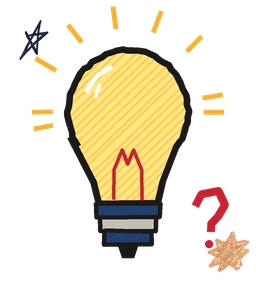
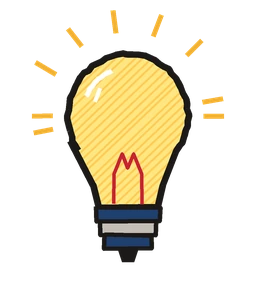
Quiz usa a lâmpada e cara a cara usa a lupa, sozinhas (cache v253)
Claude-Session: https://claude.ai/code/session_017Ekti1w9MgCDyhnHucBkk3

diff --git a/sw.js b/sw.js
@@ -1,5 +1,5 @@
 // Service worker: cacheia só o "casco" do app (código + marca). Nenhum dado do usuário passa por aqui.
-const VERSION = 'beaterista-v252';
+const VERSION = 'beaterista-v253';
 const SHELL = [
   './', 'index.html', 'manifest.webmanifest', 'css/app.css', 'css/kids.css', 'css/lote2.css', 'css/lote3.css', 'css/audit.css', 'js/session.js', 'css/jogos.css', 'css/estudos.css', 'js/views/story.js', 'assets/story/meio-tom-branco.webp', 'assets/story/rasgado-cinza.webp', 'js/jogos/velha.js', 'js/jogos/velha-logic.js', 'js/jogos/velha-data.js', 'js/jogos/bingo.js', 'js/jogos/bingo-logic.js', 'js/jogos/bingo-art.js', 'js/jogos/cara.js', 'js/jogos/cara-logic.js', 'js/jogos/cara-data.js', 'js/jogos/quebra.js', 'js/jogos/quebra-logic.js', 'js/jogos/stop.js', 'js/jogos/stop-logic.js', 'js/jogos/stop-valid.js', 'js/jogos/stop-sfx.js', 'js/jogos/stop-bank-teoria.js', 'js/jogos/stop-bank-cultura.js', 'assets/jogos/palco.webp', 'js/views/jogos.js', 'js/views/jogos-relatorio.js', 'js/jogos/base.js', 'js/jogos/cartas.js', 'js/jogos/cartas-logic.js', 'js/jogos/cartas-simbolos.js', 'js/jogos/cartas-sfx.js', 'aluno.html', 'js/aluno.js', 'js/aluno-boot.js', 'js/ranking.js', 'js/paul-talk.js', 'js/views/acessos.js', 'manifest-aluno.webmanifest', 'js/mic-access.js', 'js/views/ata.js', 'js/views/kids-relatorio.js', 'js/feedback.js', 'js/tips.js', 'js/tipbox.js', 'js/views/dicas.js', 'js/views/figuras-aprender.js', 'js/kids/ritmo.js', 'js/kids/memoria.js', 'js/kids/memory-themes.js',
   'js/app.js', 'js/util.js', 'js/db.js', 'js/store.js', 'js/auth.js', 'js/sync.js', 'js/config.js',

diff --git a/PASSAGEM.md b/PASSAGEM.md
@@ -121,4 +121,4 @@ O que se sobe no GitHub **não** chega sozinho à área dos alunos.
 - Testes: `tests/e2e/acesso.mjs`. Cache v246.
 
 ## Ícones dos jogos (nov/2026)
-- A Bea **gosta do estilo rabisco colorido** dos webp (cartas, bingo, velha, stop, quebra-cabeça, cara a cara) e quer tudo nele. Os que faltavam foram **montados por colagem, SEM o Paul (a Bea não quer o Paul nos ícones)** com peças de `assets/paul/el/*`, `assets/rabiscos/*` e `assets/jogos/instrumentos/*`: `dicas`, `ritmo`, `figuras`, `pauta`, `cara`, `dicas` em `assets/jogos/icones/*.webp` (os .svg antigos ficam no repositório, ainda usados em Kids/relatório da Bea). Se ela gerar ilustrações novas na mesma IA dos originais, é só trocar os arquivos (256×~300 px, fundo transparente). `paul.webp` e `rabiscos.webp` são decoração, não são de jogo. "Fases e estrelas" usa o `rabiscos.webp` (estrelas rabiscadas que a Bea escolheu). Os 6 originais (cartas, bingo, velha, stop, quebra-cabeca, cara-a-cara) NÃO podem ser trocados. Toca Aqui usa o `paul.webp` (Paul com as baquetas, escolha da Bea; ele só vale como ícone desse jogo). Jogo da memória usa o ícone antigo do cara a cara (`cara-a-cara.webp`, escolha da Bea); o cara a cara ganhou ícone novo (`cara.webp`, tabuleiro de instrumentos). Lâmpada e lupa "bonitinhas" (traço de marcador, hachura) estão nos ícones `dicas` e `cara`. Cache v252.
+- A Bea **gosta do estilo rabisco colorido** dos webp (cartas, bingo, velha, stop, quebra-cabeça, cara a cara) e quer tudo nele. Os que faltavam foram **montados por colagem, SEM o Paul (a Bea não quer o Paul nos ícones)** com peças de `assets/paul/el/*`, `assets/rabiscos/*` e `assets/jogos/instrumentos/*`: `dicas`, `ritmo`, `figuras`, `pauta`, `cara`, `dicas` em `assets/jogos/icones/*.webp` (os .svg antigos ficam no repositório, ainda usados em Kids/relatório da Bea). Se ela gerar ilustrações novas na mesma IA dos originais, é só trocar os arquivos (256×~300 px, fundo transparente). `paul.webp` e `rabiscos.webp` são decoração, não são de jogo. "Fases e estrelas" usa o `rabiscos.webp` (estrelas rabiscadas que a Bea escolheu). Os 6 originais (cartas, bingo, velha, stop, quebra-cabeca, cara-a-cara) NÃO podem ser trocados. Toca Aqui usa o `paul.webp` (Paul com as baquetas, escolha da Bea; ele só vale como ícone desse jogo). Jogo da memória usa o ícone antigo do cara a cara (`cara-a-cara.webp`, escolha da Bea); o cara a cara ganhou ícone novo (`cara.webp`, tabuleiro de instrumentos). Lâmpada e lupa "bonitinhas" (traço de marcador, hachura) estão nos ícones `dicas` e `cara`. Quiz (`dicas.webp`) = só a lâmpada; cara a cara (`cara.webp`) = só a lupa (escolha da Bea). Cache v253.
